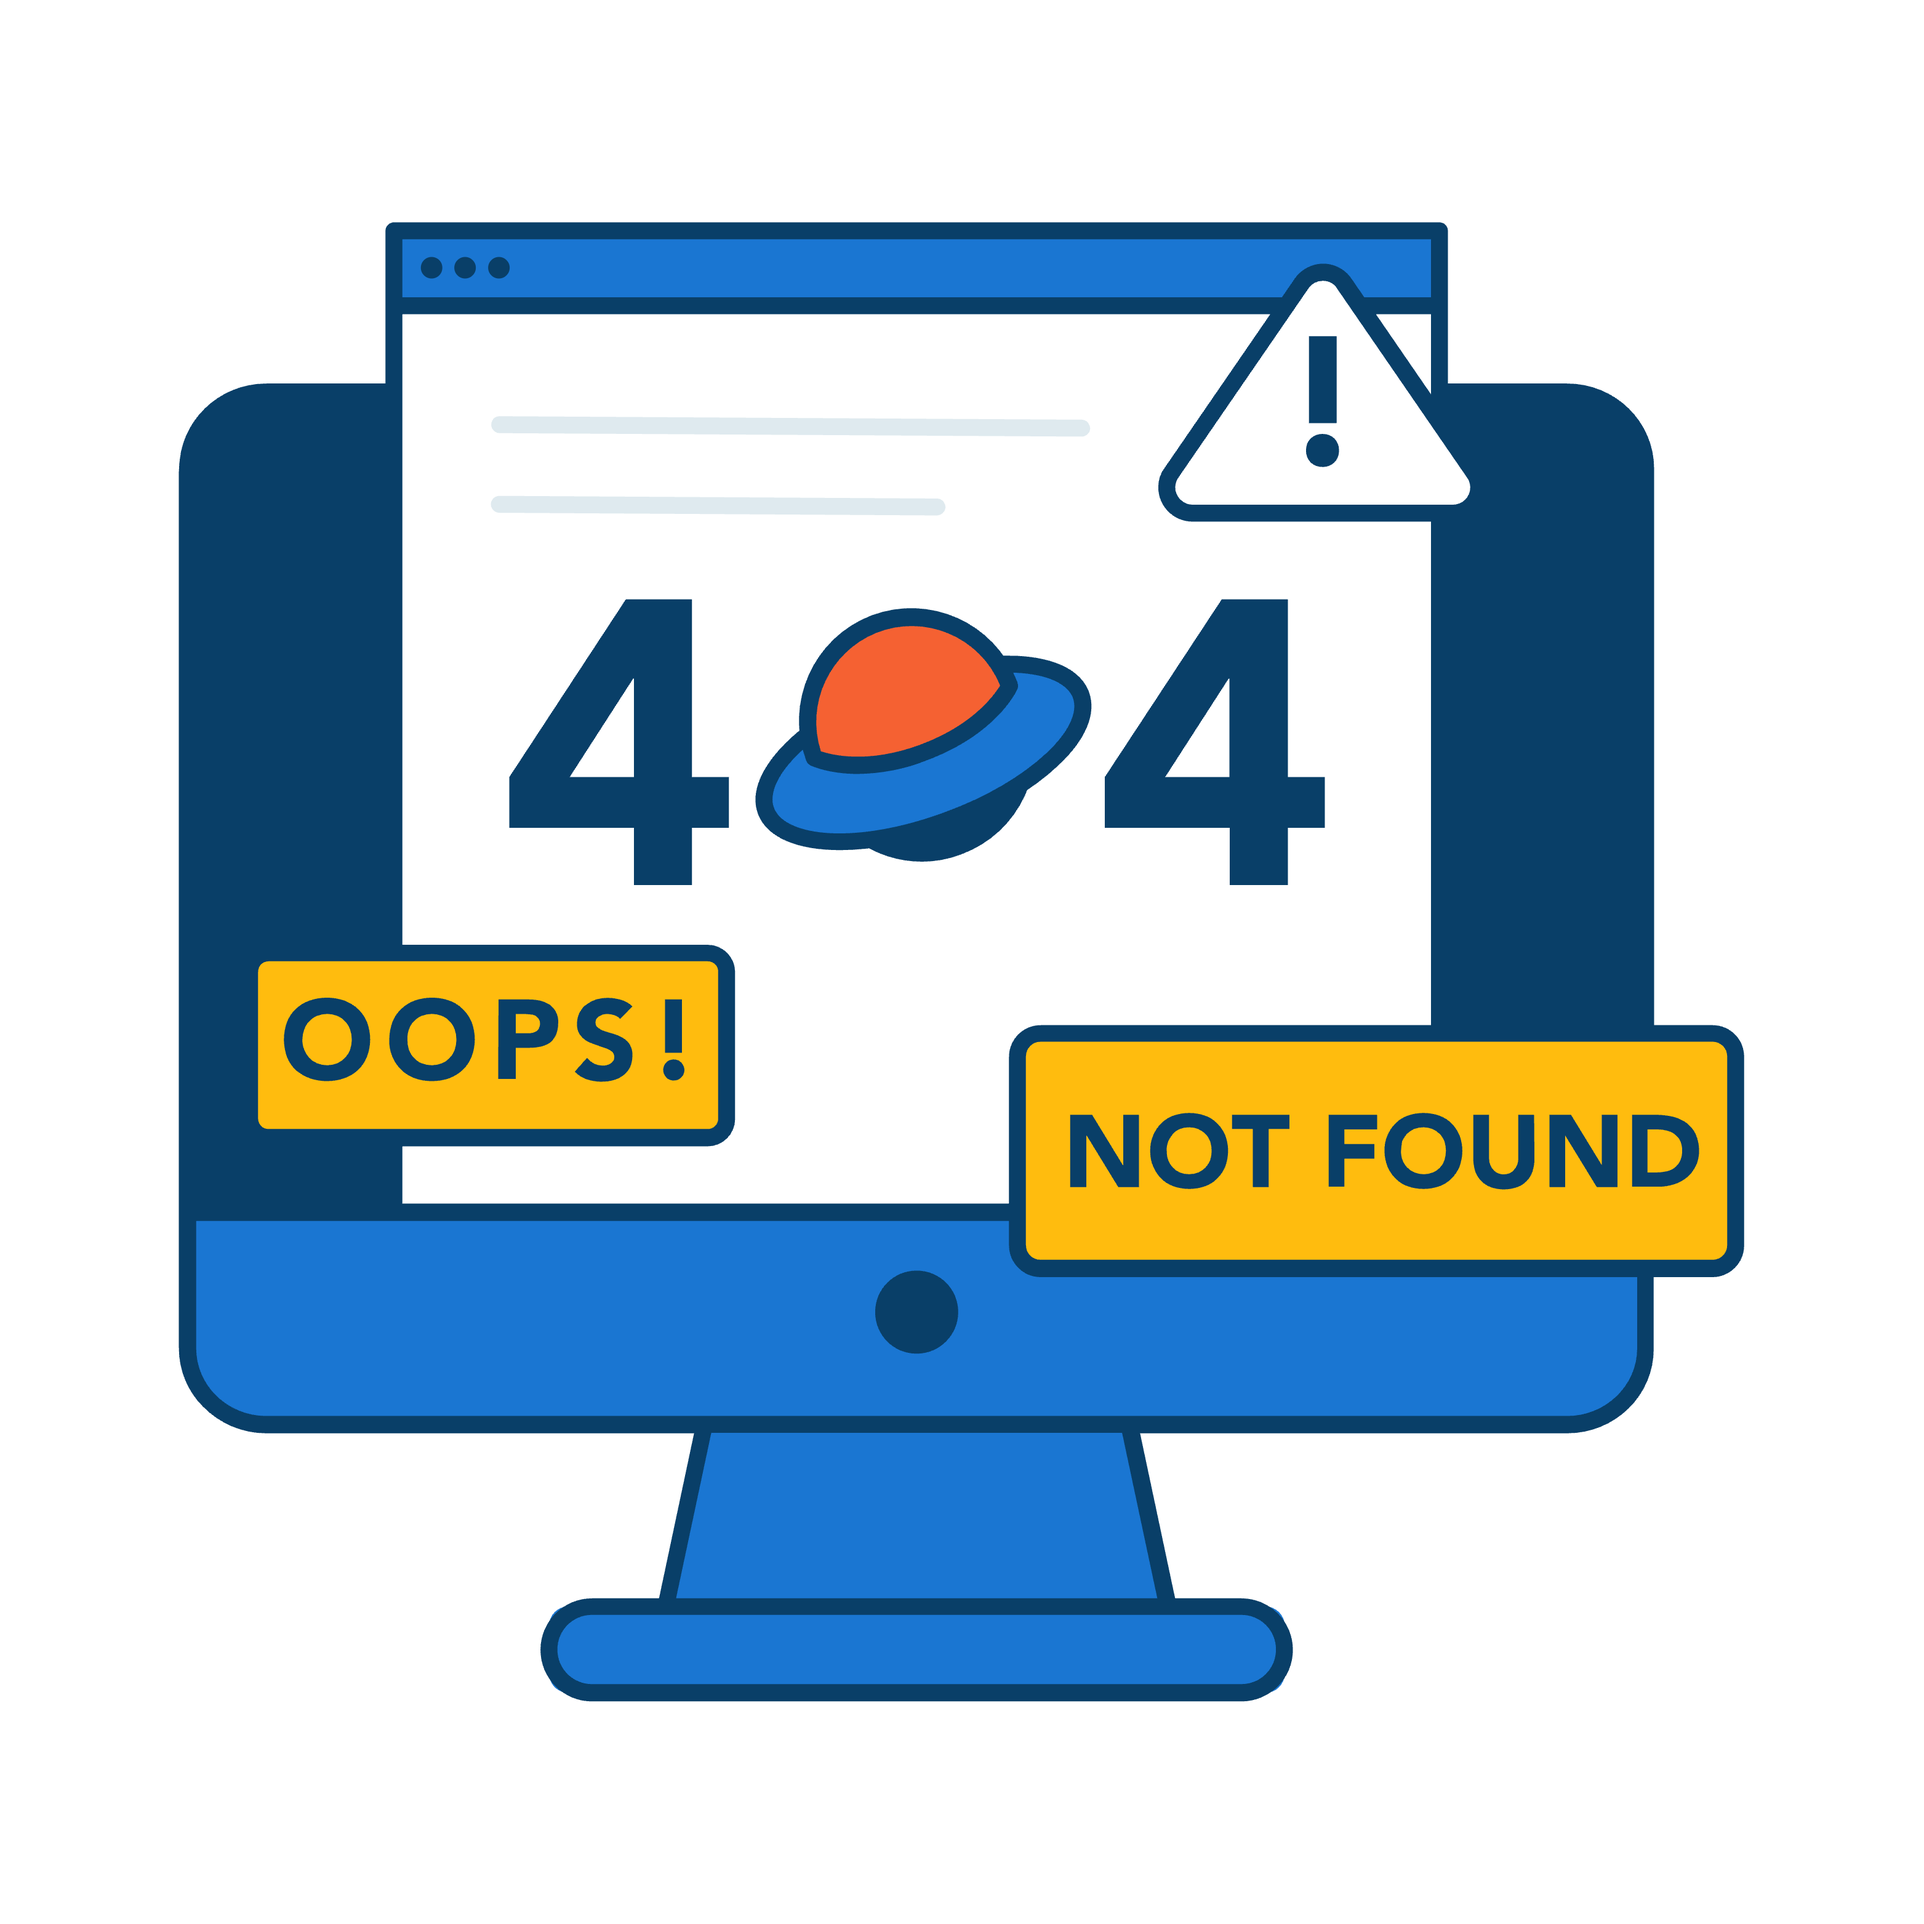
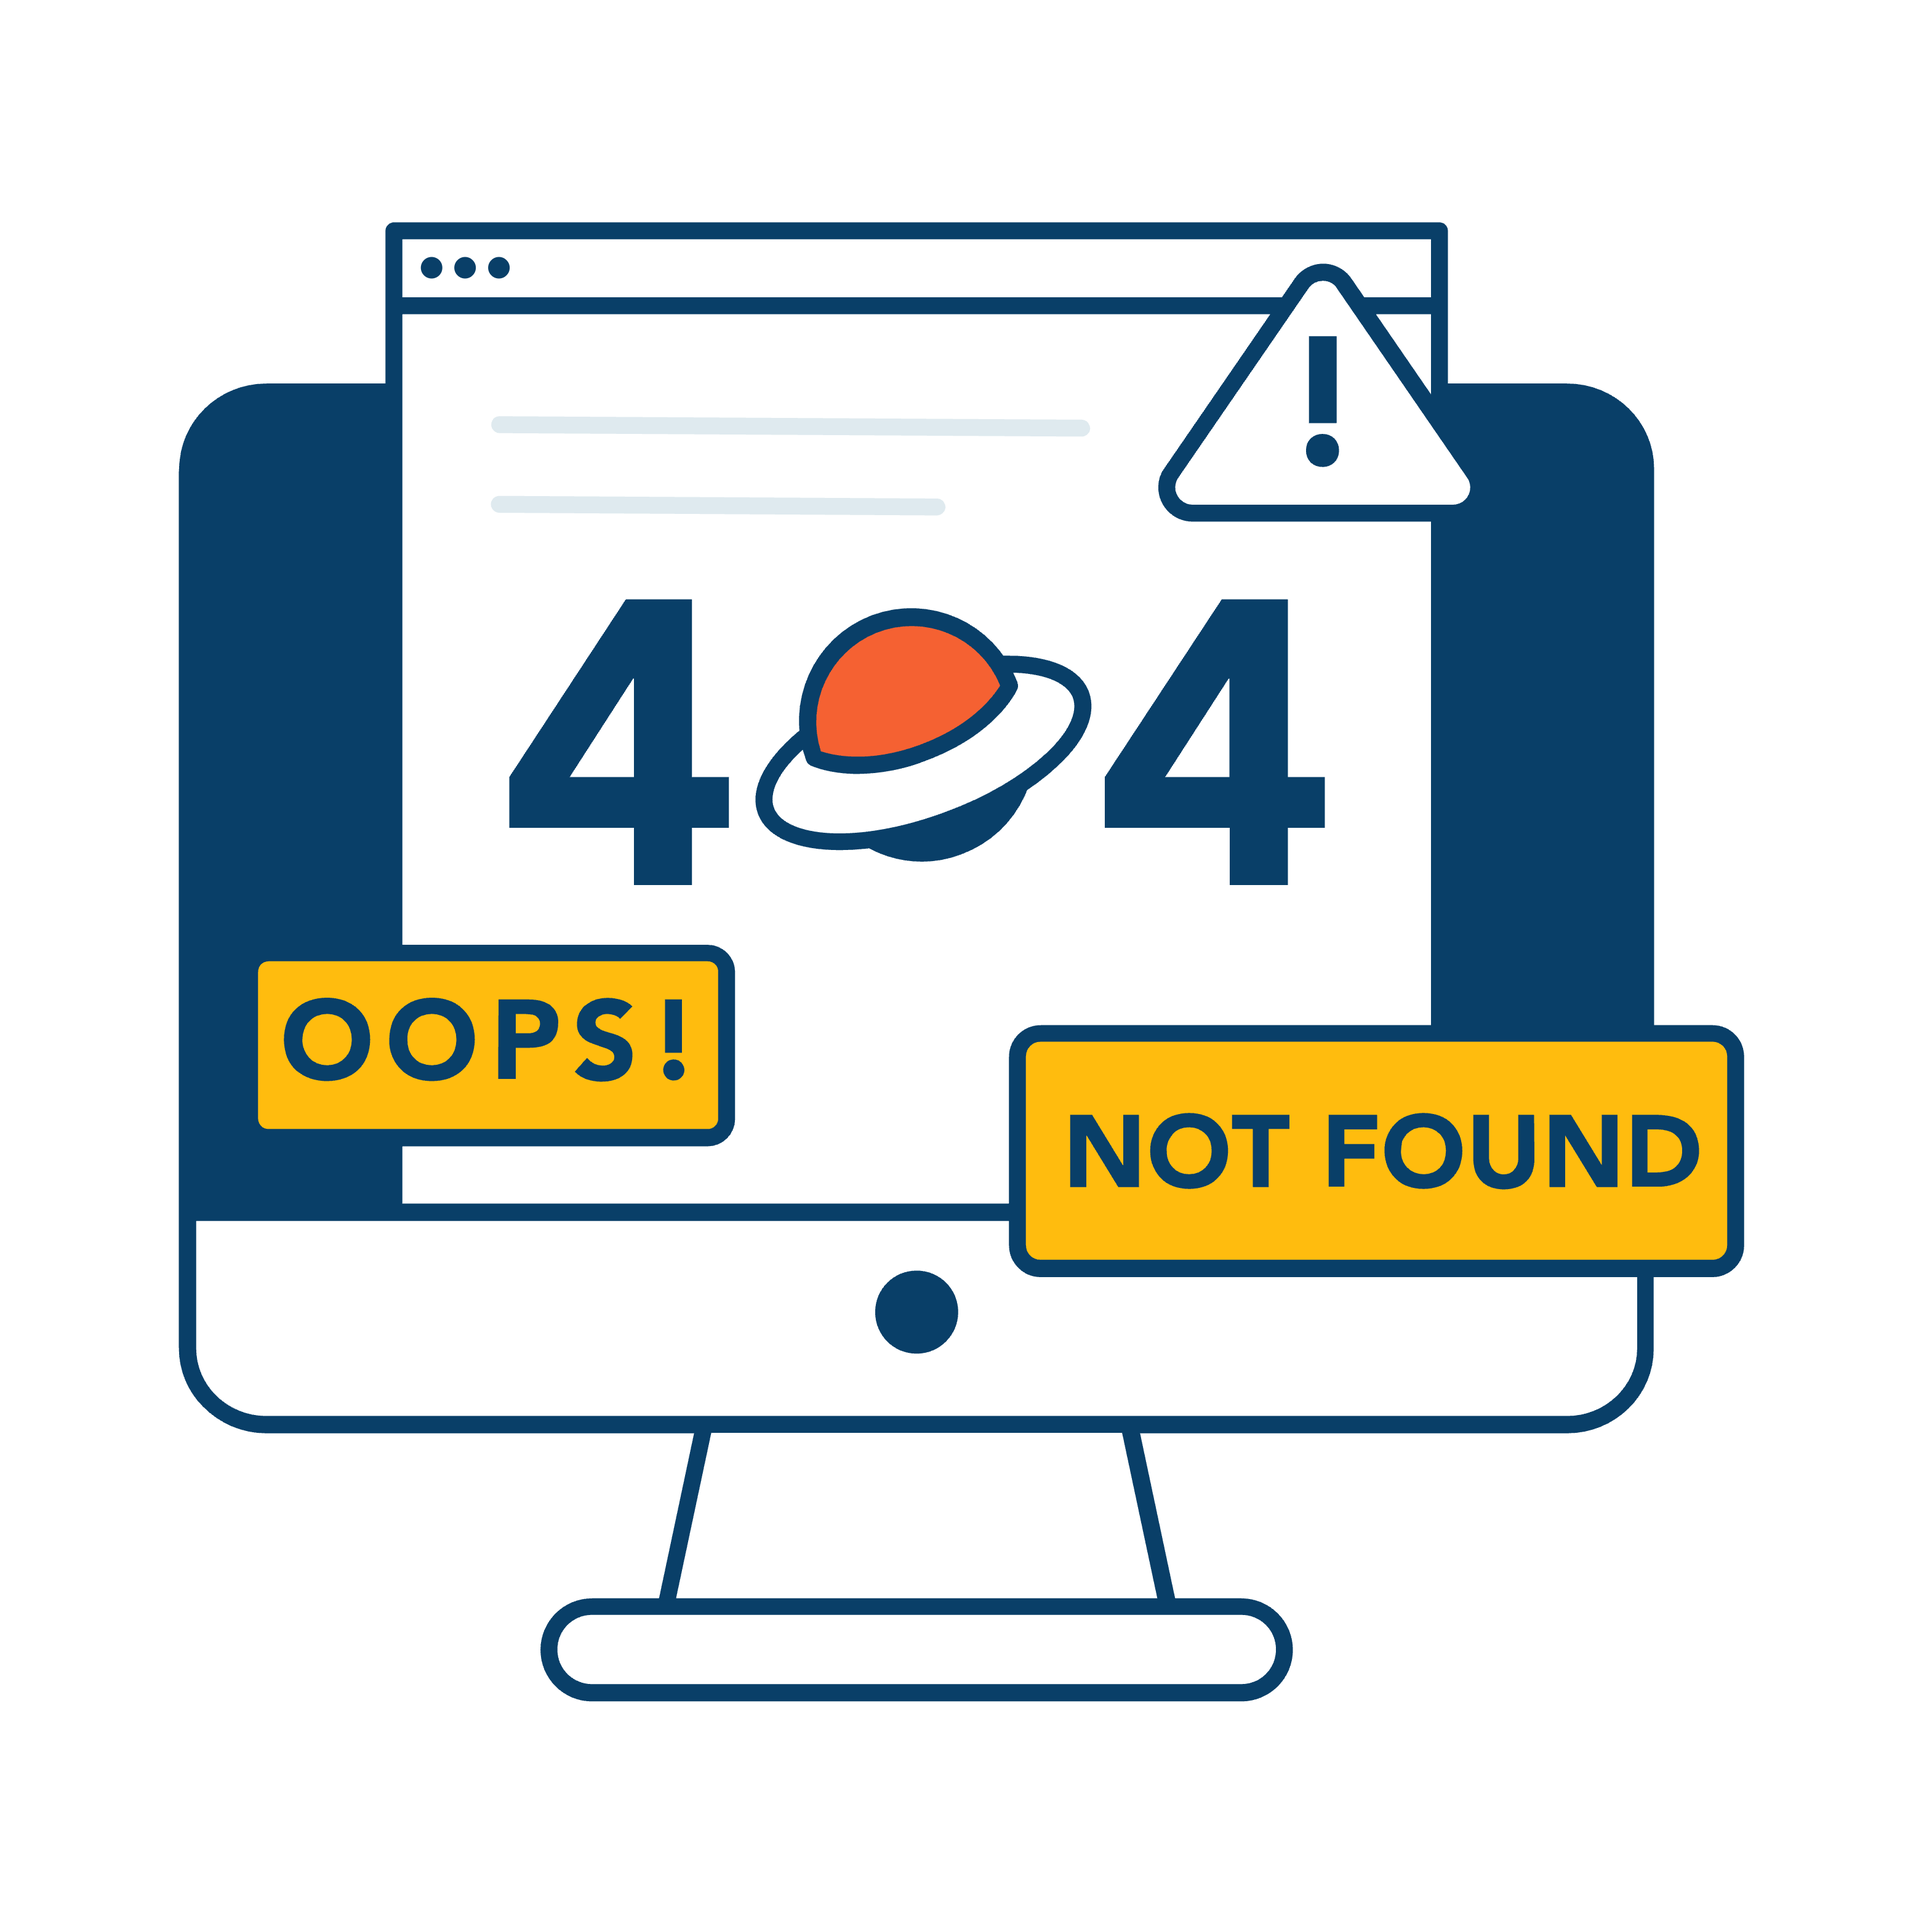
UI enhancements

Changed region(s): [[0.0931, 0.6206, 0.8688, 0.8999], [0.1862, 0.1241, 0.7447, 0.1552], [0.4034, 0.3413, 0.5585, 0.4344]]

diff --git a/client/src/pages/Projects/Projects.jsx b/client/src/pages/Projects/Projects.jsx
@@ -135,7 +135,7 @@ const Projects = () => {
 					<>
 						{projects.length === 0 ? (
 							<Box sx={{ my: 4, textAlign: "center" }}>
-								<img src={noDataImg} alt="No projects illustration" style={{ maxWidth: "300px", marginBottom: "16px" }} />
+								<img src={noDataImg} alt="No projects illustration" style={{ maxWidth: "400px", marginBottom: "16px" }} />
 								<Typography variant="body1" color="text.secondary">
 									No projects found. Please create one to get started.
 								</Typography>

diff --git a/client/src/pages/NotFound/NotFound.jsx b/client/src/pages/NotFound/NotFound.jsx
@@ -5,7 +5,7 @@ import notFoundPage from "../../assets/page_not_found.png";
 const NotFound = () => {
 	return (
 		<Box sx={{ my: 4, textAlign: "center" }}>
-			<img src={notFoundPage} alt="No projects illustration" style={{ maxWidth: "300px", marginBottom: "16px" }} />
+			<img src={notFoundPage} alt="No projects illustration" style={{ maxWidth: "400px", marginBottom: "16px" }} />
 			<Typography variant="body1" color="text.secondary">
 				The page you're looking for could not be found
 			</Typography>

diff --git a/client/src/pages/TaskDetails/TaskDetails.jsx b/client/src/pages/TaskDetails/TaskDetails.jsx
@@ -181,8 +181,8 @@ const TaskDetails = () => {
 		<Container sx={{ maxWidth: { xs: 400, sm: 600 } }}>
 			<Box sx={{ my: 2 }}>
 				{/* Header and Title */}
-				<Typography variant="h5" component="h1" gutterBottom>
-					Task: {task.title}
+				<Typography variant="h4" component="h1" gutterBottom>
+					{task.title}
 				</Typography>
 
 				{/* Status Chips */}

diff --git a/client/src/pages/Home/Home.jsx b/client/src/pages/Home/Home.jsx
@@ -182,7 +182,7 @@ const Home = () => {
 						alt="Scrum Board"
 						style={{
 							width: "100%", // responsive full width inside container
-							maxWidth: "500px", // don’t stretch too much
+							maxWidth: "400px", // don’t stretch too much
 							height: "auto", // keep aspect ratio
 							borderRadius: "8px",
 						}}
